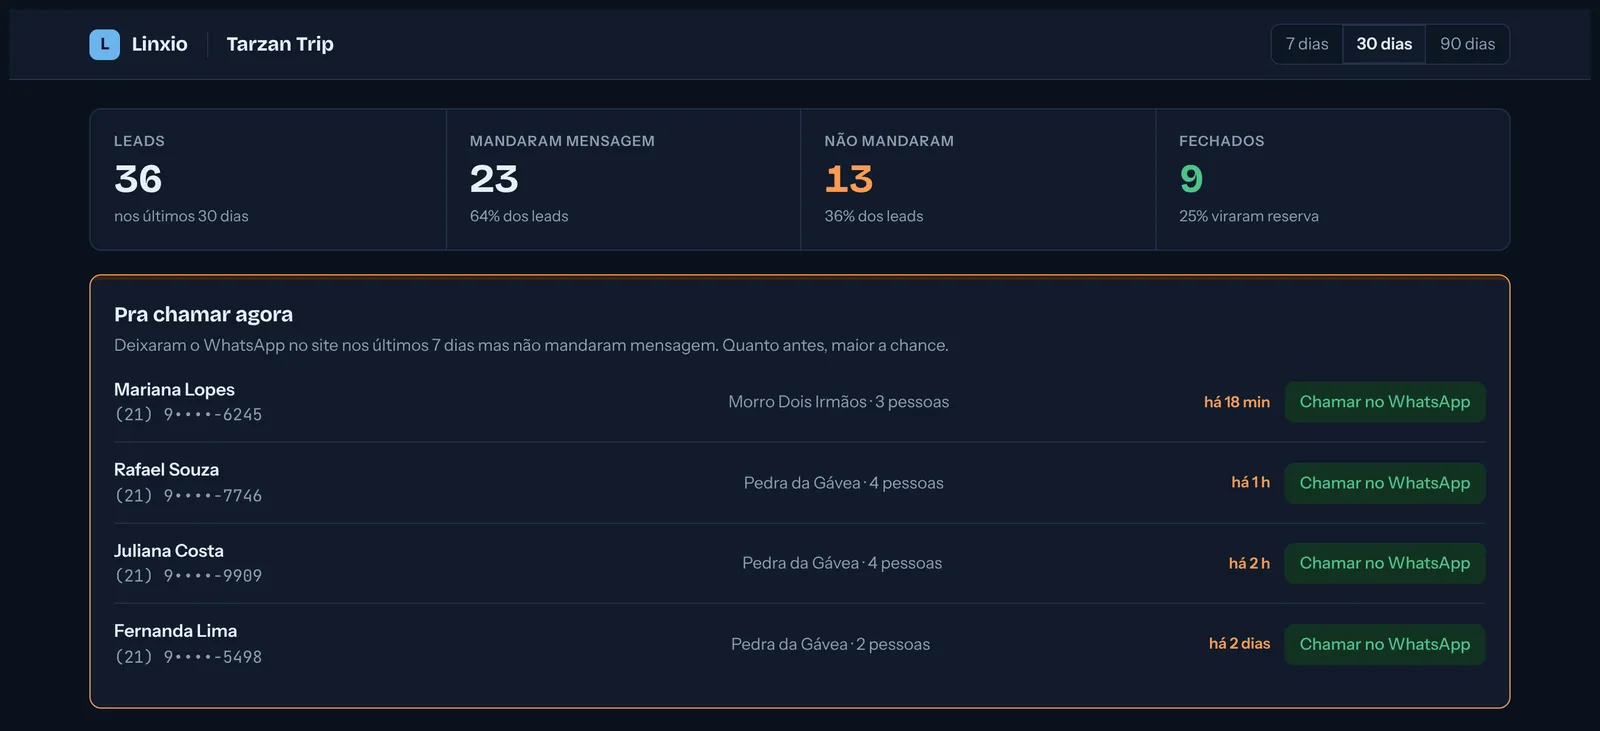
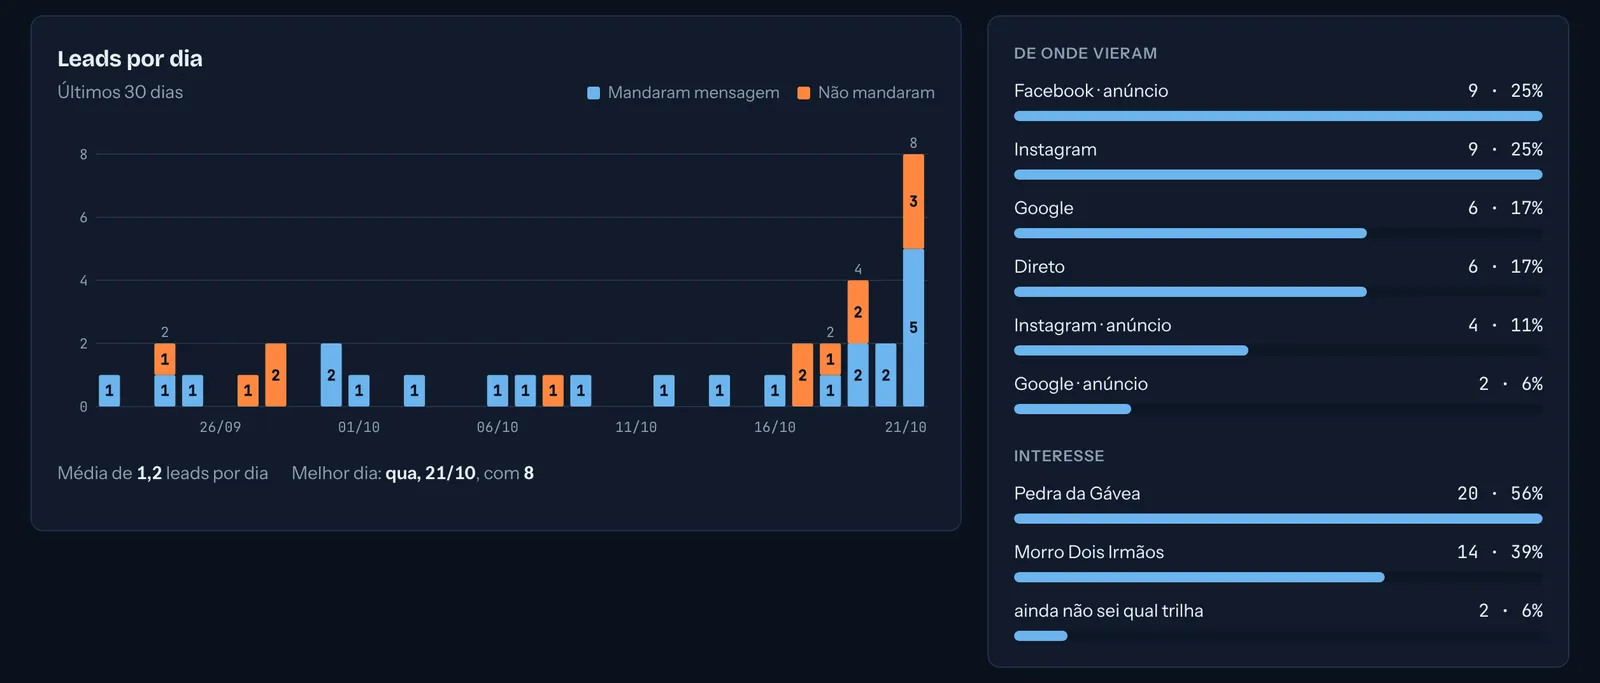
LP: prints de computador também no celular
Claude-Session: https://claude.ai/code/session_01Tz1DYrWsXn1YRVjuSTogv9

diff --git a/index.html b/index.html
@@ -327,7 +327,6 @@ p{margin:0}
 .dash-panel.on{opacity:1;visibility:visible;transform:none;transition:opacity .5s ease,transform .6s cubic-bezier(.2,.8,.2,1),visibility 0s}
 .dash-panel img{width:100%;height:auto}
 @media (max-width:640px){
-  .dash-stage{aspect-ratio:700/1515}
   .dash-tabs{grid-template-columns:1fr 1fr 1fr;gap:4px;padding:6px}
   .dash-tabs button{flex-direction:column;align-items:center;text-align:center;gap:6px;font-size:12px;padding:8px 4px 11px;line-height:1.2}
 }
@@ -766,13 +765,13 @@ html.locked,html.locked body{overflow:hidden}
           <div class="dash-tabs" role="tablist" aria-label="Telas do painel"><button type="button" role="tab" id="dt-1" aria-controls="dp-1" aria-selected="true"><span class="dt-n">1</span>Quem chamar agora<span class="dt-bar" aria-hidden="true"><i></i></span></button><button type="button" role="tab" id="dt-2" aria-controls="dp-2" aria-selected="false" tabindex="-1"><span class="dt-n">2</span>Números e origem<span class="dt-bar" aria-hidden="true"><i></i></span></button><button type="button" role="tab" id="dt-3" aria-controls="dp-3" aria-selected="false" tabindex="-1"><span class="dt-n">3</span>Todos os leads<span class="dt-bar" aria-hidden="true"><i></i></span></button></div>
           <div class="dash-stage">
             <div class="dash-panel on" role="tabpanel" id="dp-1" aria-labelledby="dt-1">
-              <picture><source media="(max-width:640px)" srcset="/img/foto-02.webp"><img src="/img/foto-03.webp" width="1600" height="731" loading="lazy" alt="Painel com o total de leads do período, quem mandou e quem não mandou mensagem, reservas fechadas e a lista de quem chamar agora no WhatsApp"></picture>
+              <picture><img src="/img/foto-02.webp" width="1600" height="731" loading="lazy" alt="Painel com o total de leads do período, quem mandou e quem não mandou mensagem, reservas fechadas e a lista de quem chamar agora no WhatsApp"></picture>
             </div>
             <div class="dash-panel" role="tabpanel" id="dp-2" aria-labelledby="dt-2" aria-hidden="true">
-              <picture><source media="(max-width:640px)" srcset="/img/foto-04.webp"><img src="/img/foto-05.webp" width="1600" height="683" loading="lazy" alt="Gráfico de leads por dia com a quantidade escrita em cada barra, e listas de onde vieram os contatos e do interesse de cada um"></picture>
+              <picture><img src="/img/foto-03.webp" width="1600" height="683" loading="lazy" alt="Gráfico de leads por dia com a quantidade escrita em cada barra, e listas de onde vieram os contatos e do interesse de cada um"></picture>
             </div>
             <div class="dash-panel" role="tabpanel" id="dp-3" aria-labelledby="dt-3" aria-hidden="true">
-              <picture><source media="(max-width:640px)" srcset="/img/foto-06.webp"><img src="/img/foto-07.webp" width="1600" height="820" loading="lazy" alt="Lista de todos os leads com quando chegou, interesse, data desejada, origem, se mandou mensagem e o status do atendimento"></picture>
+              <picture><img src="/img/foto-04.webp" width="1600" height="820" loading="lazy" alt="Lista de todos os leads com quando chegou, interesse, data desejada, origem, se mandou mensagem e o status do atendimento"></picture>
             </div>
           </div>
         </div>
